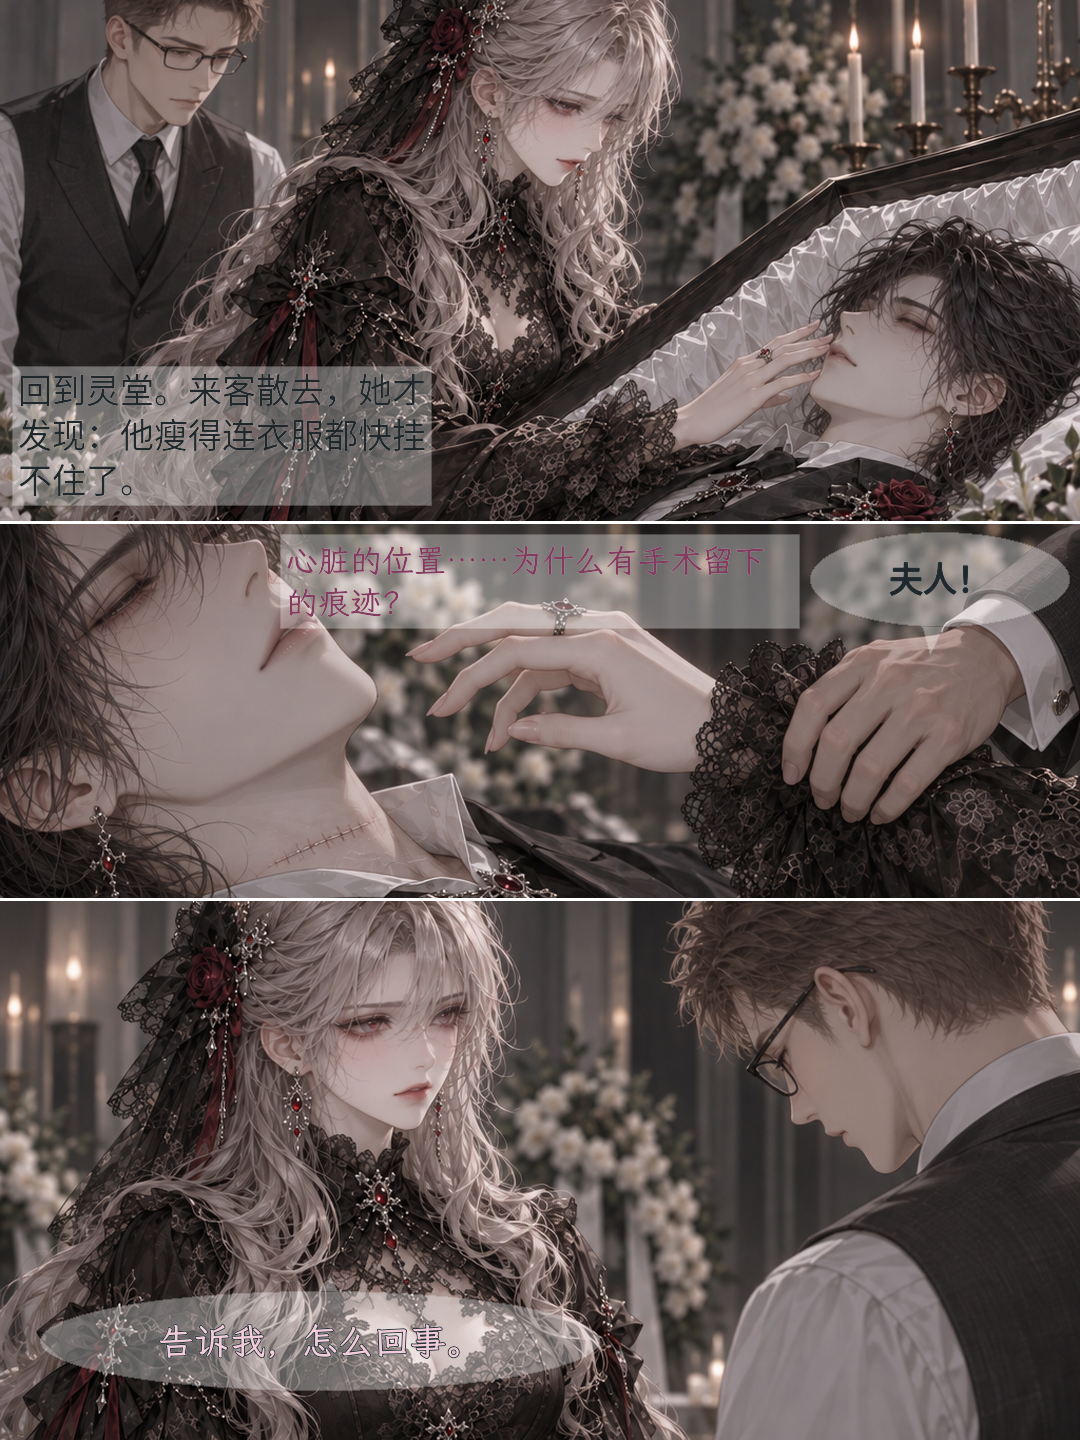
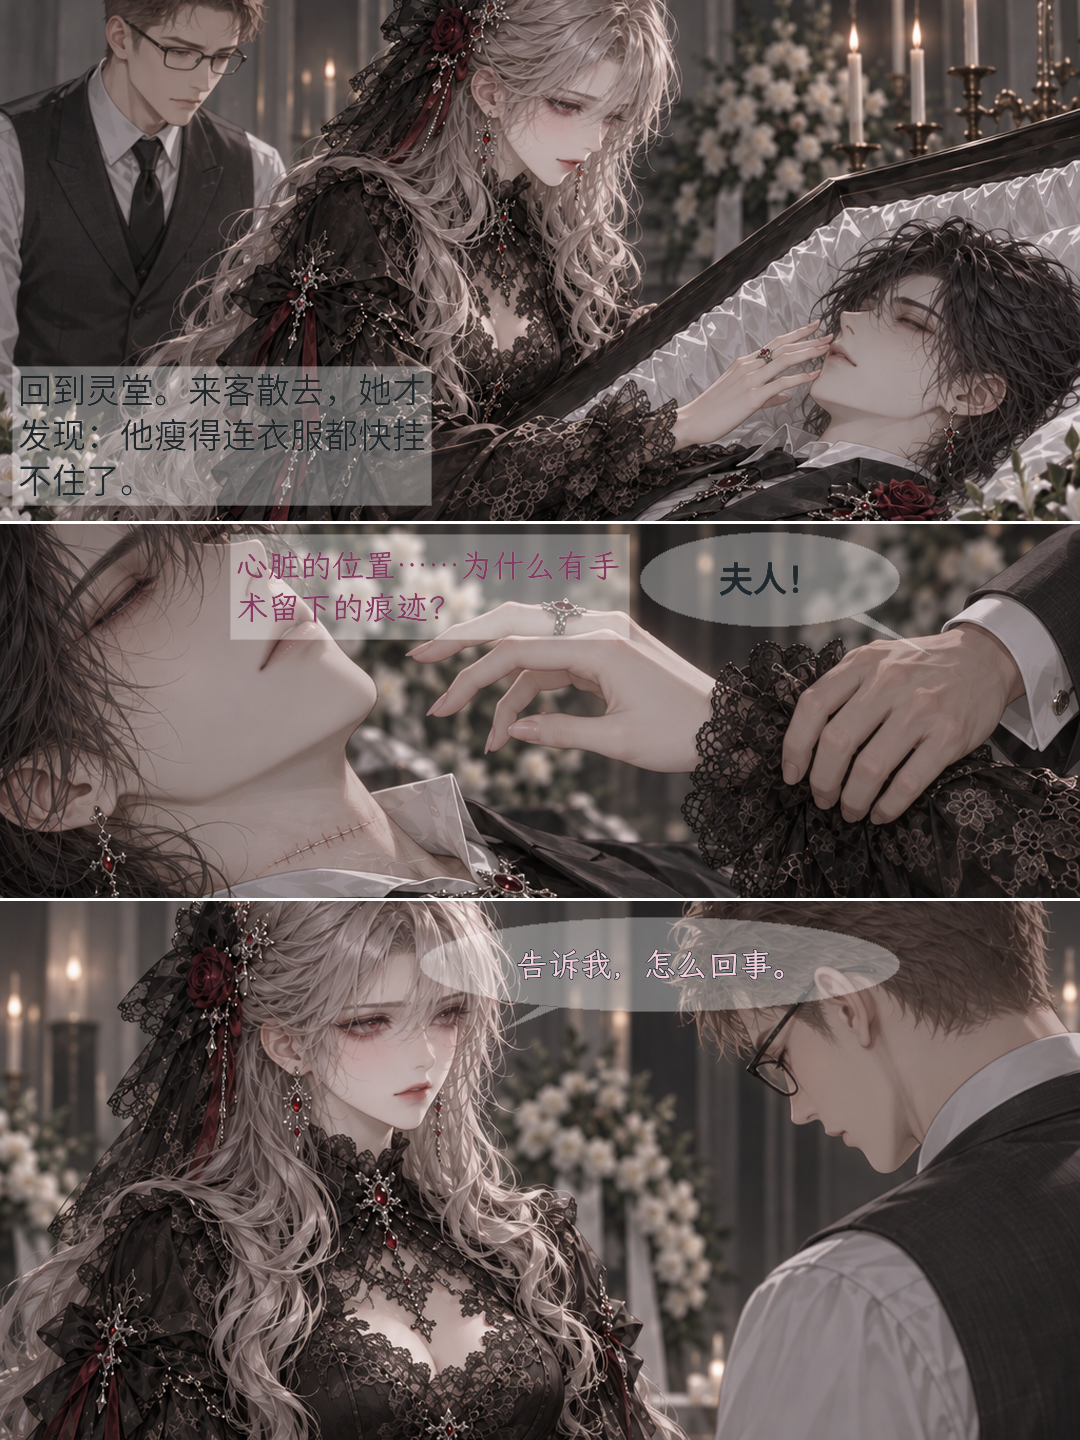
第二十五轮：抖音图文形态适配（规格/工作安全区QC/CH001 v8移8框/上传件kit/CMC-35）＋回滚恢复记录（0调用）

Changed region(s): [[0.2139, 0.3438, 1.0, 0.4688], [0.0306, 0.875, 0.55, 0.9688], [0.3667, 0.625, 0.8556, 0.7188]]

diff --git a/CHANGELOG.md b/CHANGELOG.md
@@ -14,6 +14,7 @@
 ## [Unreleased]
 
 ### Added
+- 静态漫画新增CMC-35：抖音图文发布适配——形态=轮播图文帖（非漫画站）；规格1080×1440/≤10MB/每帖≤35张（每话一帖）；工作安全区（右缘≤900、底缘≤1300页绝对）由9:16 UI数字推算、**未验证**需真机复核；越区框在未冻结话直接移（0调用）、冻结话列清单待裁决（移框重冻 vs 清屏手势）。证据：2026-10规格检索＋CH001 v8移8框；未验证限界：图文模式UI遮挡无官方公开数，3:4居中假设待真机证伪。
 - 静态漫画新增CMC-34：整页sheet回图裁行管线——白缝检测分行（阈值min通道≥240且行占比≥0.9，缝宽≥3px才切）；**行高按各行原生宽高比推导**（页几何随回图实测，不预设等分），hidden=1−crop/src；模型常不给等分行（实测sheet4=553/397/572），预设等分会裁不动或裁穿；内容保护用偏置top offset（护脸/手、弃装饰物）；超自检界（25%）的裁切必须进disclosed清单并向创作者披露＋给清零方案（如改比例重出sheet）。证据：CH001七张sheet裁15行，hidden 10.6–11.0%（p4原生窄行10.6%）、p1两行偏置裁36%披露；未验证限界：白缝阈值对非纯白缝/带纹理缝未测。
 - 静态漫画新增CMC-33：文生图NPC身份锚定——任何无参考卡的NPC进提示词前必须先定"区别于所有主角"的固定锚点集（发色/年龄段/眼镜/服色/气质），并显式写"不得给TA主角X的黑发/狼尾/瞳色/脸"；否则模型会把俊美男NPC塌缩成男主脸。证据：创作者2026-10-27指示（助理换发色锚定）＋CH001助理五格入锚点（浅棕短寸＋黑框方眼镜＋深灰马甲）与来客"面孔各异禁用主角脸"；未验证限界：锚点对gpt-image-2.5的防塌缩效果待sheet回图实核，锚点集本身未经多模型对比。
 - 静态漫画新增CMC-32：创作者对不可画格（年龄/造型/责任未核或明确"不画"）的零调用承接口径——冻结正文不删不改，格视觉改由"同作品已采用交付稿的本地近景裁切"承载（新kind not_drawn_recall_text_carrier_crop：记录crop_of文件+sha、crop_xyxy、model_calls 0、not_from_blocked_output），回忆/画外身份仅由正文文字标记（narration自担时间身份、画外说话人无尾泡），不冒充回忆画面；整话媒体闸门因此可从缺图改valid而不新增任何生成。证据：第十一轮CH002 PAGE-001（001-02不画）violations []、white_rows {}、scale 1.543界内；未验证限界：承载裁切的时间身份混淆风险只靠narration正文自担、未经读者/平台验证，1.543×满幅行清晰度仅验于本画风集，且只经一位创作者一次决定。

diff --git a/漫画改编/记忆存档.md b/漫画改编/记忆存档.md
@@ -1,8 +1,20 @@
 # 漫画修订工作记忆
 
+最后更新：2026-10-27｜第二十五轮：抖音图文形态适配＋安全区QC（CH001 v8移8框；冻结21框待裁决）＋沙箱回滚恢复（0调用）
+
+## 本轮范围（开始记录）：第二十五轮=抖音图文规格核实/工作安全区QC/v8重排/上传件kit/CMC-35/回滚恢复（0新模型调用）
+
+- 创作者澄清：发布=抖音图文帖（轮播图＋文案），非漫画站形式；画廊仅审稿工具。
+- 完成：规格核实（3:4/≤10MB/≤35张每帖→每话一帖）；工作安全区（右≤900/底≤1300页绝对，未验证）；CH001 v8移8框＋回执/三连读换v8；QC报告列CH002/003冻结21框（A移框重冻/B清屏/C真机抽看，推荐C）；上传件kit CH002/003；汇编抖音规格节；CMC-35回写三处；沙箱回滚至acee7ba→reset --hard origin恢复0c0d541无丢失；venv/字体第11度重建。
+- 检查：提交前review+全套/ruff/diff。
+- 未决：CH001九页v8待整读反馈→冻结；冻结21框裁决；p1行2/3可4:3重出sheet1；中段补写未授权。
+- 下一步建议：①真机整读画廊v8＋抽看冻结页越区框（主线，反馈后冻结+裁决）；②p1重出sheet1（需确认）；③CH001文案草案审定。
+
+
 最后更新：2026-10-27｜第二十四轮：创作者选1→三连读手机整读画廊(live preview)＋冻结/发布整合运行手册（0调用）
 
-## 本轮范围（开始记录）：第二十四轮=手机整读画廊＋反馈指南＋CH001冻结与三话发布整合运行手册（草案）（0新模型调用）
+### 前轮范围（第二十四轮）
+## 本轮范围（开始记录）：第二十四轮=整读画廊＋运行手册草案（0调用）
 
 - 创作者选「1」：手机整读三连读29页并反馈v7七页＋v5两页→反馈后冻结CH001并进发布包。
 - 完成：三连读包内index.html画廊（29页顺序＋状态标注）＋http.server live preview；反馈指南入三连读说明；运行手册草案（冻结步骤/CH001发布文案草案/三话顺序与封面/素材清单扩展）入发布准备目录。

diff --git a/skills/static-comic/SKILL.md b/skills/static-comic/SKILL.md
@@ -138,6 +138,7 @@ python3 {技能目录}/scripts/comic_tool.py render 项目/第001话/排版.json
 ### 5. 拼页、排字与图文交接
 
 - 绑定已就位素材前先按真实像素复算覆盖裁切（CMC-29）：记录每格放大倍数、真正可见的源区与被裁比例，不看文件存在或提示词就定几何。整幅行裁切控制在约25%内并用focus护脸/手/证据；竖幅与细小局部改列宽或`image_rect`居中插入，按不超过约1.6×显示，不用满格拉伸把小局部放大裁坏。2格或含细小插入的页填不满画幅时，把增格/并页/接受留白交创作者决定，不擅自改页结构、不暗缩字。
+- 抖音图文适配（CMC-35）：发布=轮播图文帖；页=1080×1440；每话一帖≤35张；文本框避工作安全区（右≤900/底≤1300页绝对，未验证需真机复核）；冻结页越区只列清单待裁决。
 - 整页sheet裁行（CMC-34）：白缝检测分行→行高按原生宽高比推导→hidden预算内竖裁（偏置offset护脸/手）→超界裁切披露＋清零方案；页几何写回排版.json后再贴字。
 - NPC身份锚定（CMC-33）：无参考卡的NPC进提示词前先定固定锚点集（发色/年龄段/眼镜/服色/气质），并显式禁止套用任何主角的脸/发/瞳；同一NPC跨格/跨sheet锚点一致。来客等背景NPC写"面孔各异且不可辨认、禁用主角脸"。回图核对时把锚点特征列入逐格检查项。
 - 不可画格的零调用承接（CMC-32）：格因年龄/造型/责任未核或创作者明确"不画"时，不回分镜删冻结正文，也不生成间接镜别；用同作品已采用交付稿的本地近景裁切作承载行（manifest记 not_drawn_recall_text_carrier_crop：crop_of+sha、crop_xyxy、model_calls 0），回忆/画外声音仅由正文标记（narration自担时间身份、画外说话人无尾泡），看图说明与回执写明"回忆无视觉标记"。整话媒体闸门可因此改valid而0新增生成；若创作者后续要视觉区分，属新决定。

diff --git a/漫画改编/发布准备-CH002-CH003/抖音图文安全区QC报告.md b/漫画改编/发布准备-CH002-CH003/抖音图文安全区QC报告.md
@@ -1,0 +1,17 @@
+# 抖音图文安全区QC报告（2026-10-27·工作安全区=未验证保守值）
+
+## 规格依据
+
+- 抖音图文：1080×1440（3:4）、单图≤10MB、每帖≤35张（PC端口径）→ 每话一条帖（CH001=9、CH002=12、CH003=8）可行。
+- 界面遮挡：公开安全区数字均针对9:16视频（顶220–288px/底200–380px/右侧栏无抖音官方公开数）；图文按3:4图居中于9:16屏推算：左右满宽、上下各留黑边240px → 底部文案条约压图底140px、右侧操作栏约压图右180px。
+- **工作安全区（保守、未验证）**：文本框右缘≤900、底缘≤1300（页绝对坐标）；顶缘因黑边豁免。需创作者真机预览复核后转正或修订。
+
+## CH001（未冻结）：8框已移入区内（v8，0调用）
+
+- TEXT-001-04（p1旁白→顶左）、004-02/004-03/004-04（p4）、005-01/005-02（p5）、006-01（p6）、008-02/008-03（p8）。逐页目检无压脸/手。
+
+## CH002/CH003（已冻结）：21框越区清单（未动，待裁决）
+
+- CH002：P1-T001-04(底1398)、P3-T003-02(右1060)、P4-T004-01/02(右1056)、P4-T004-03(右1060)、P8-T008-01(右1060)、P8-T008-03(底1387)、P9-T009-02(底1372)、P10-T010-01(右1060)、P11-T011-03(右1060)、P12-T012-01(右1060)。
+- CH003：P1-T001-03(底1374)、P3-T003-01(右1050)、P4-T004-02(右1050)、P4-T004-03(底1327)、P5-T005-01(右1050)、P5-T005-03(底1365)、P6-T006-01(右1060)、P6-T006-02(底1317)、P7-T007-01(右1060)、P8-T008-02(底1335)。
+- 选项A：批量移框重贴字（0模型调用）→ 解冻-重排-重新冻结（需创作者批准动冻结页）；选项B：保持冻结原样，靠抖音长按清屏手势看图（评论区置顶教清屏）；选项C：真机抽看越区框实际遮挡程度再定。推荐C→A/B。

diff --git a/skills/static-comic/references/social-publishing.md b/skills/static-comic/references/social-publishing.md
@@ -63,3 +63,10 @@
 当次平台数量限制若容不下，先核实规则，再在合理停点拆成连续话；不能为了塞进一帖把进行中的事跳掉。
 续话先核对上话实际结尾及全部待续事件，封面/CTA/简介不算剧情交代，不能拿“去看原著”冒充本话已解决。
 本次推文可以保留原著问题并停止制作；若以后继续，仍从分镜记录的出口与未结状态承接。
+
+## 抖音图文帖形态与安全区（CMC-35，2026-10-27 回写）
+
+- 场景：小说推广漫画以抖音图文帖发布（轮播图＋文案），不是漫画站/长条漫；审稿画廊等网页工具仅作内部预览。
+- 方法：每话一条帖（9–12张≤35上限）；图1=封面首图钩子；文案=发布文案＋标签；评论区置顶引导看书＋长按清屏教程；文本框排布避工作安全区（右缘≤900、底缘≤1300，页绝对1080×1440）。
+- 审核：真机预览复核安全区假设（图文UI遮挡无官方公开数，现为9:16数字推算）；冻结页越区框只列清单、创作者裁决后批量移框重冻或接受清屏手势。
+- 未验证限界：3:4图在图文模式的实际显示（居中留边/裁切）因机型而异；安全区阈值待真机证伪后修订。

diff --git a/漫画改编/发布准备-CH002-CH003/抖音上传件-CH002/上传顺序.md b/漫画改编/发布准备-CH002-CH003/抖音上传件-CH002/上传顺序.md
@@ -1,0 +1,14 @@
+# CH002 抖音图文上传顺序（冻结页，直接按序选图）
+
+01. 漫画改编/开篇修订/第002话/第002话/制作成果/整话预览-CH002/PAGE-001.png
+02. 漫画改编/开篇修订/第002话/第002话/制作成果/整话预览-CH002/PAGE-002.png
+03. 漫画改编/开篇修订/第002话/第002话/制作成果/整话预览-CH002/PAGE-003.png
+04. 漫画改编/开篇修订/第002话/第002话/制作成果/整话预览-CH002/PAGE-004.png
+05. 漫画改编/开篇修订/第002话/第002话/制作成果/整话预览-CH002/PAGE-005.png
+06. 漫画改编/开篇修订/第002话/第002话/制作成果/整话预览-CH002/PAGE-006.png
+07. 漫画改编/开篇修订/第002话/第002话/制作成果/整话预览-CH002/PAGE-007.png
+08. 漫画改编/开篇修订/第002话/第002话/制作成果/整话预览-CH002/PAGE-008.png
+09. 漫画改编/开篇修订/第002话/第002话/制作成果/整话预览-CH002/PAGE-009.png
+10. 漫画改编/开篇修订/第002话/第002话/制作成果/整话预览-CH002/PAGE-010.png
+11. 漫画改编/开篇修订/第002话/第002话/制作成果/整话预览-CH002/PAGE-011.png
+12. 漫画改编/开篇修订/第002话/第002话/制作成果/整话预览-CH002/PAGE-012.png

diff --git a/.agents/notes/implemented/process/2026-10-25-comic-art-first-childhood-production.md b/.agents/notes/implemented/process/2026-10-25-comic-art-first-childhood-production.md
@@ -117,3 +117,4 @@ Status: implemented
 - 第十五轮（修正轮）：创作者"1"授权的CH001贴字补齐经fs核查不成立（15格无图＋成年盘分工在创作者）→不执行、不冒称；补11格交接单与缺口钉死测试。教训：选项里的"媒体已就位"必须逐文件验证；分工以创作简报为准，不以队列印象为准。
 - 第二十二轮：创作者立NPC身份锚定硬规则（助理发色等锚点防模型认成男主）→锚点写入CH001分镜提示词字段（004-01/02/03、005-01、006-01＋001-02来客）＋两份提示词单重导出＋CMC-33回写；回图核对清单加入锚点特征。
 - 第二十三轮：创作者回7张sheet→裁15行（0调用）＋CH001 pp1–7满幅贴字v7试排＋三连读扩到29页＋gap测试改为presence+provenance pin＋CMC-34回写；p1行2/3偏置裁36%披露待反馈（可4:3重出sheet1清零）。
+- 第二十五轮：创作者澄清发布形态=抖音图文帖→规格核实（3:4/≤10MB/≤35张每帖）＋工作安全区QC（CH001 v8移8框；CH002/003冻结21框列清单待裁决）＋上传件/文案kit＋CMC-35回写；途中沙箱回滚至分支基点→reset --hard origin恢复0c0d541真树（无丢失）。

diff --git a/漫画改编/发布准备-CH002-CH003/发布顺序与文案汇编.md b/漫画改编/发布准备-CH002-CH003/发布顺序与文案汇编.md
@@ -51,3 +51,11 @@
 - 按本轮创作者要求，故事图片不设独立推广栏；不让角色念搜书广告。
 - 原著改编/旧图使用权、准确阅读入口、AI标识与当期平台规则仍待核验。
 - 本文件只存画外文案；剧情对白与内心仍只在漫画分镜，未自动扩展正文。
+
+## 抖音图文发布规格（2026-10-27 核实）
+
+- 形态：**抖音图文帖**（轮播图＋文案），非漫画站/长条漫；三连读画廊仅为审稿工具。
+- 规格：1080×1440（3:4）✓本包全部页面；单图≤10MB✓；每帖≤35张✓（CH001=9、CH002=12、CH003=8 各一条帖）。
+- 每条帖结构：图1=封面首图（见封面建议）→正文页按序→止点页收尾；文案=本汇编各话发布文案＋话题标签；评论区置顶：引导看书＋长按清屏看图教程。
+- 安全区：见《抖音图文安全区QC报告.md》；CH002/CH003冻结页21框越区待裁决（真机抽看→移框或清屏手势）。
+- CH001 帖位：冻结后插入顺序首位（CH001→CH002→CH003），文案用运行手册草案审定版。

diff --git a/漫画改编/发布准备-CH002-CH003/抖音上传件-CH003/上传顺序.md b/漫画改编/发布准备-CH002-CH003/抖音上传件-CH003/上传顺序.md
@@ -1,0 +1,10 @@
+# CH003 抖音图文上传顺序（冻结页，直接按序选图）
+
+01. 漫画改编/开篇修订/第003话/第003话/制作成果/画内贴字-v5/PAGE-001.png
+02. 漫画改编/开篇修订/第003话/第003话/制作成果/画内贴字-v5/PAGE-002.png
+03. 漫画改编/开篇修订/第003话/第003话/制作成果/画内贴字-v5/PAGE-003.png
+04. 漫画改编/开篇修订/第003话/第003话/制作成果/画内贴字-v5/PAGE-004.png
+05. 漫画改编/开篇修订/第003话/第003话/制作成果/画内贴字-v5/PAGE-005.png
+06. 漫画改编/开篇修订/第003话/第003话/制作成果/画内贴字-v5/PAGE-006.png
+07. 漫画改编/开篇修订/第003话/第003话/制作成果/画内贴字-v5/PAGE-007.png
+08. 漫画改编/开篇修订/第003话/第003话/制作成果/画内贴字-v5/PAGE-008.png

diff --git a/漫画改编/连续童年出图/看图索引.md b/漫画改编/连续童年出图/看图索引.md
@@ -128,3 +128,8 @@
 
 - 整读画廊：`三连读预览-开篇三话/index.html`（手机顺序整读29页；live preview）。
 - 运行手册：`发布准备-CH002-CH003/CH001冻结与三话发布整合运行手册.md`（草案待反馈触发）。
+
+## 第二十五轮新增
+
+- CH001 v8九页：`第001话/制作成果/画内贴字-v8/`（安全区版预览）；画廊/三连读已换v8副本。
+- `发布准备-CH002-CH003/抖音图文安全区QC报告.md`、`抖音上传件-CH002/CH003/`。

diff --git a/漫画改编/开篇修订/第001话/制作成果/画内贴字-v8/看图说明.md b/漫画改编/开篇修订/第001话/制作成果/画内贴字-v8/看图说明.md
@@ -1,0 +1,5 @@
+# CH001 九页 v8 看图说明（2026-10-27）
+
+- v8＝v7 文本/图全不变，仅把越抖音工作安全区（右16.7%/底~10%）的8个文本框移入区内（PAGE-001/004/005/006/008）。
+- 发布形态＝抖音图文帖（轮播图＋文案），非漫画站；页=1080×1440 3:4，每话一条帖（9/12/8张≤35张上限）。
+- 状态：preview_pending_creator_review；整读请用手机画廊（index.html 已换v8副本）。
